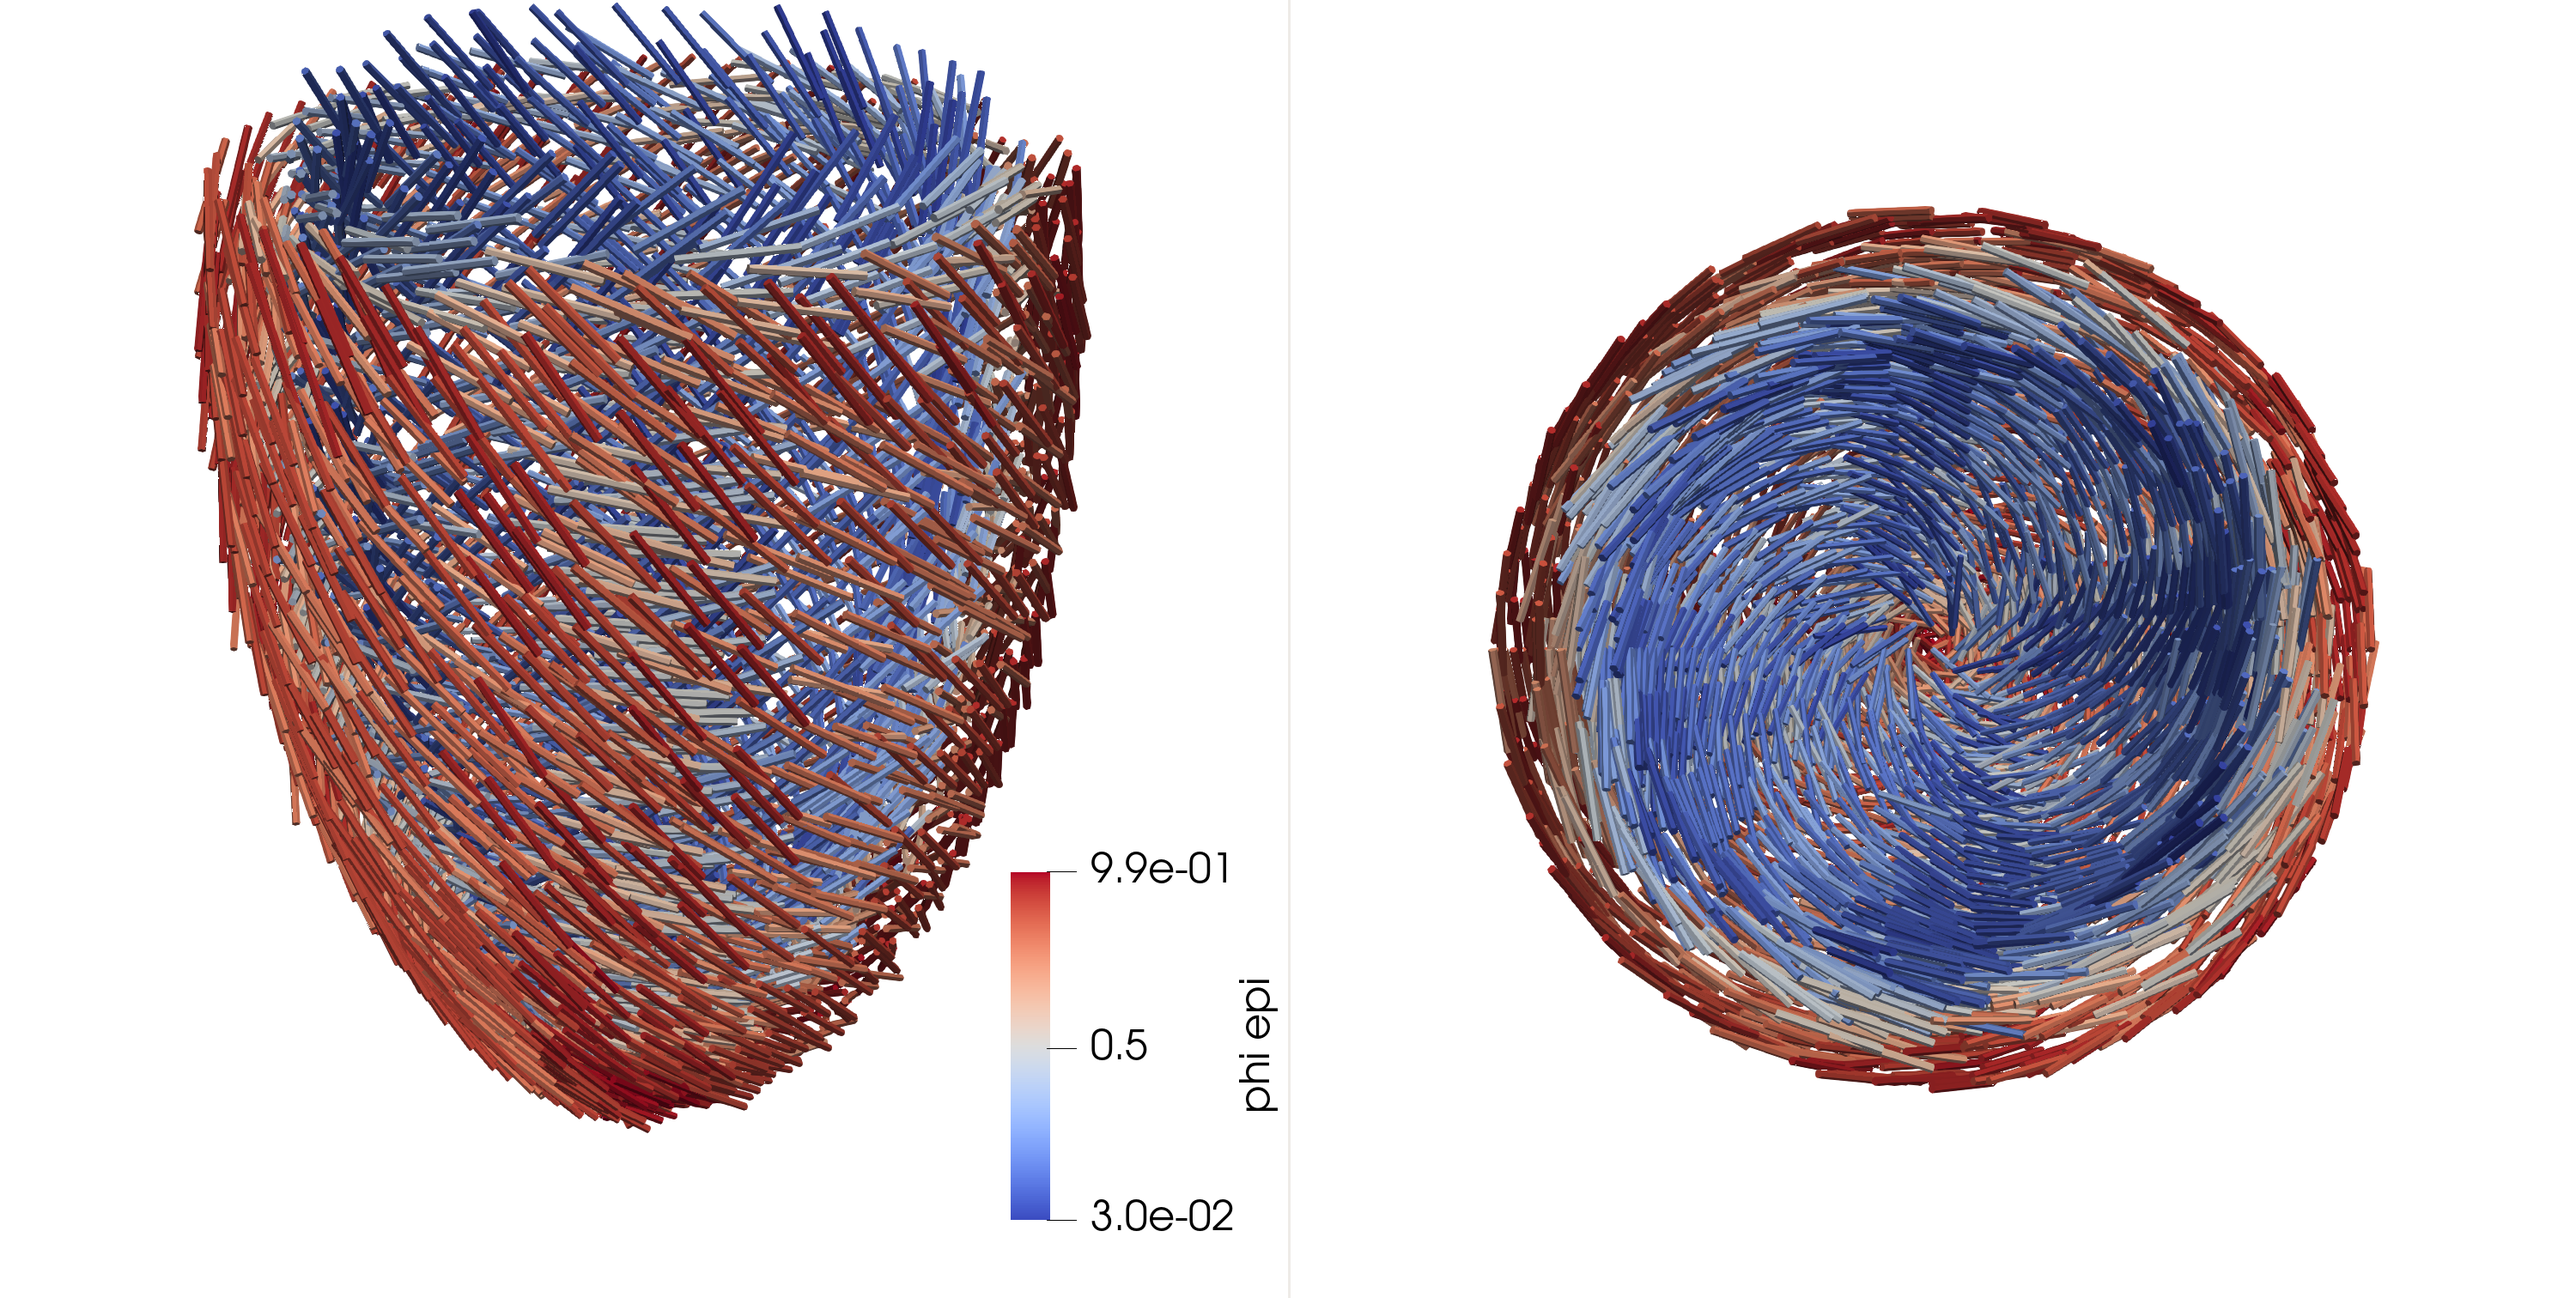
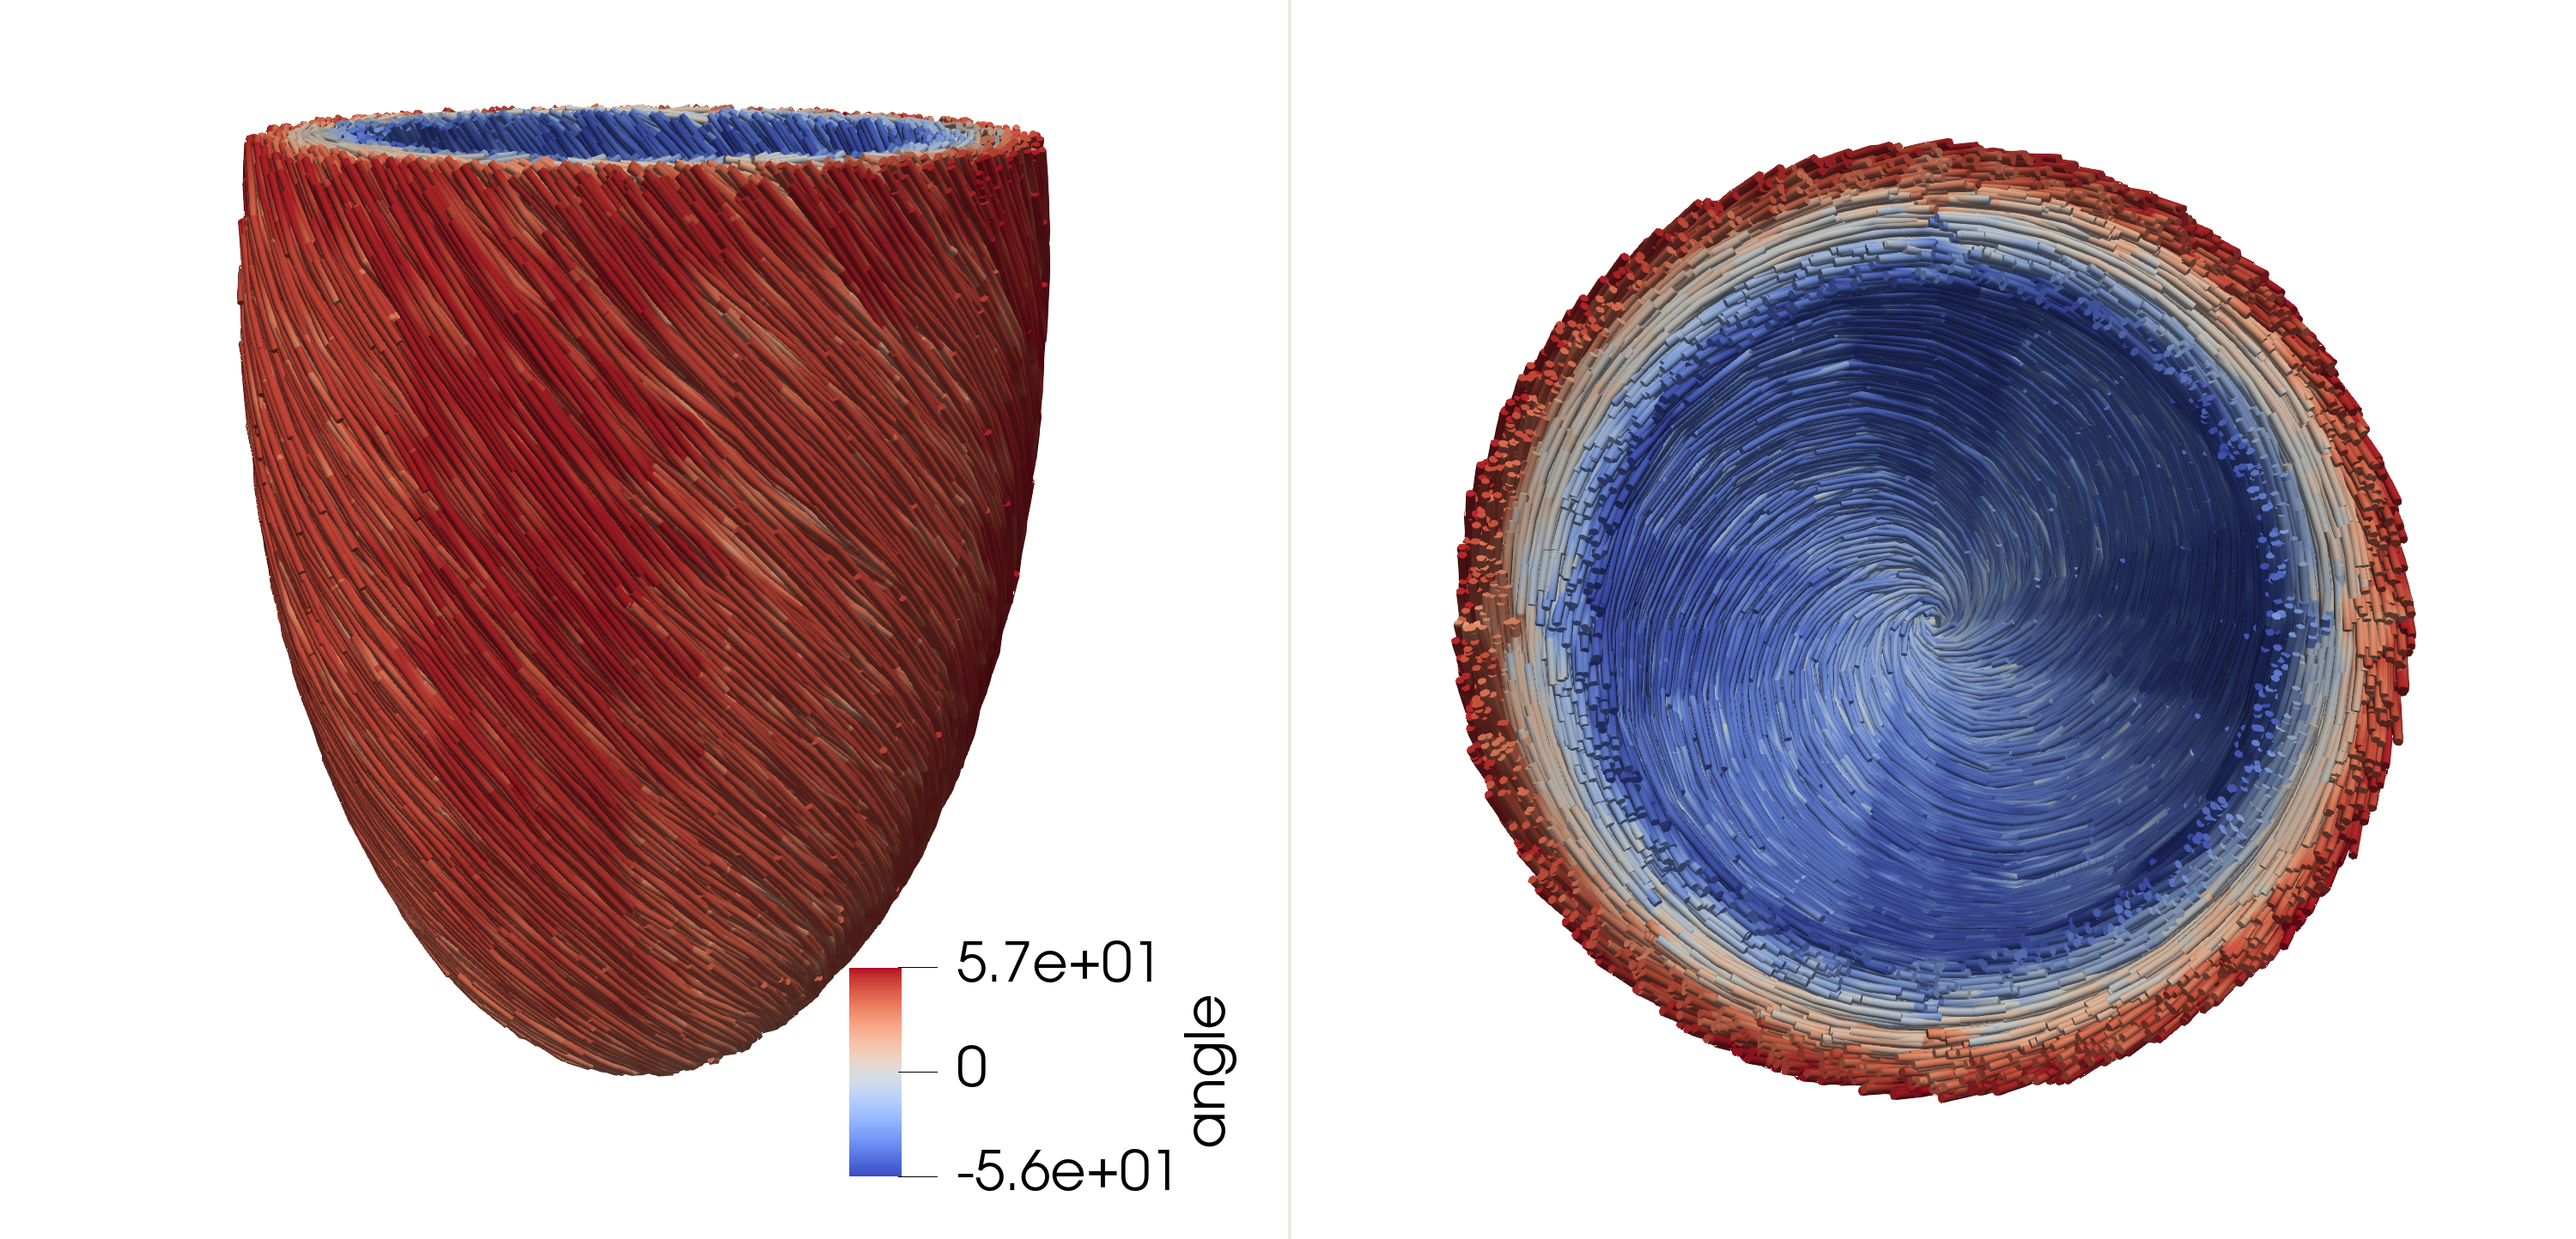
Update lv_ellipsoid figure

diff --git a/README.md b/README.md
@@ -208,6 +208,9 @@ $ ./cardiac-fibers \
 
 ```
 
+The following visualization is rendered using the `'Stream Tracer'` and
+`'Tube'` filters in ParaView.
+
 
 ![Rendering of the fiber directions on `mesh/gmsh/lv_ellipsoid.msh`](docs/figures/lv_ellipsoid.png)
 
